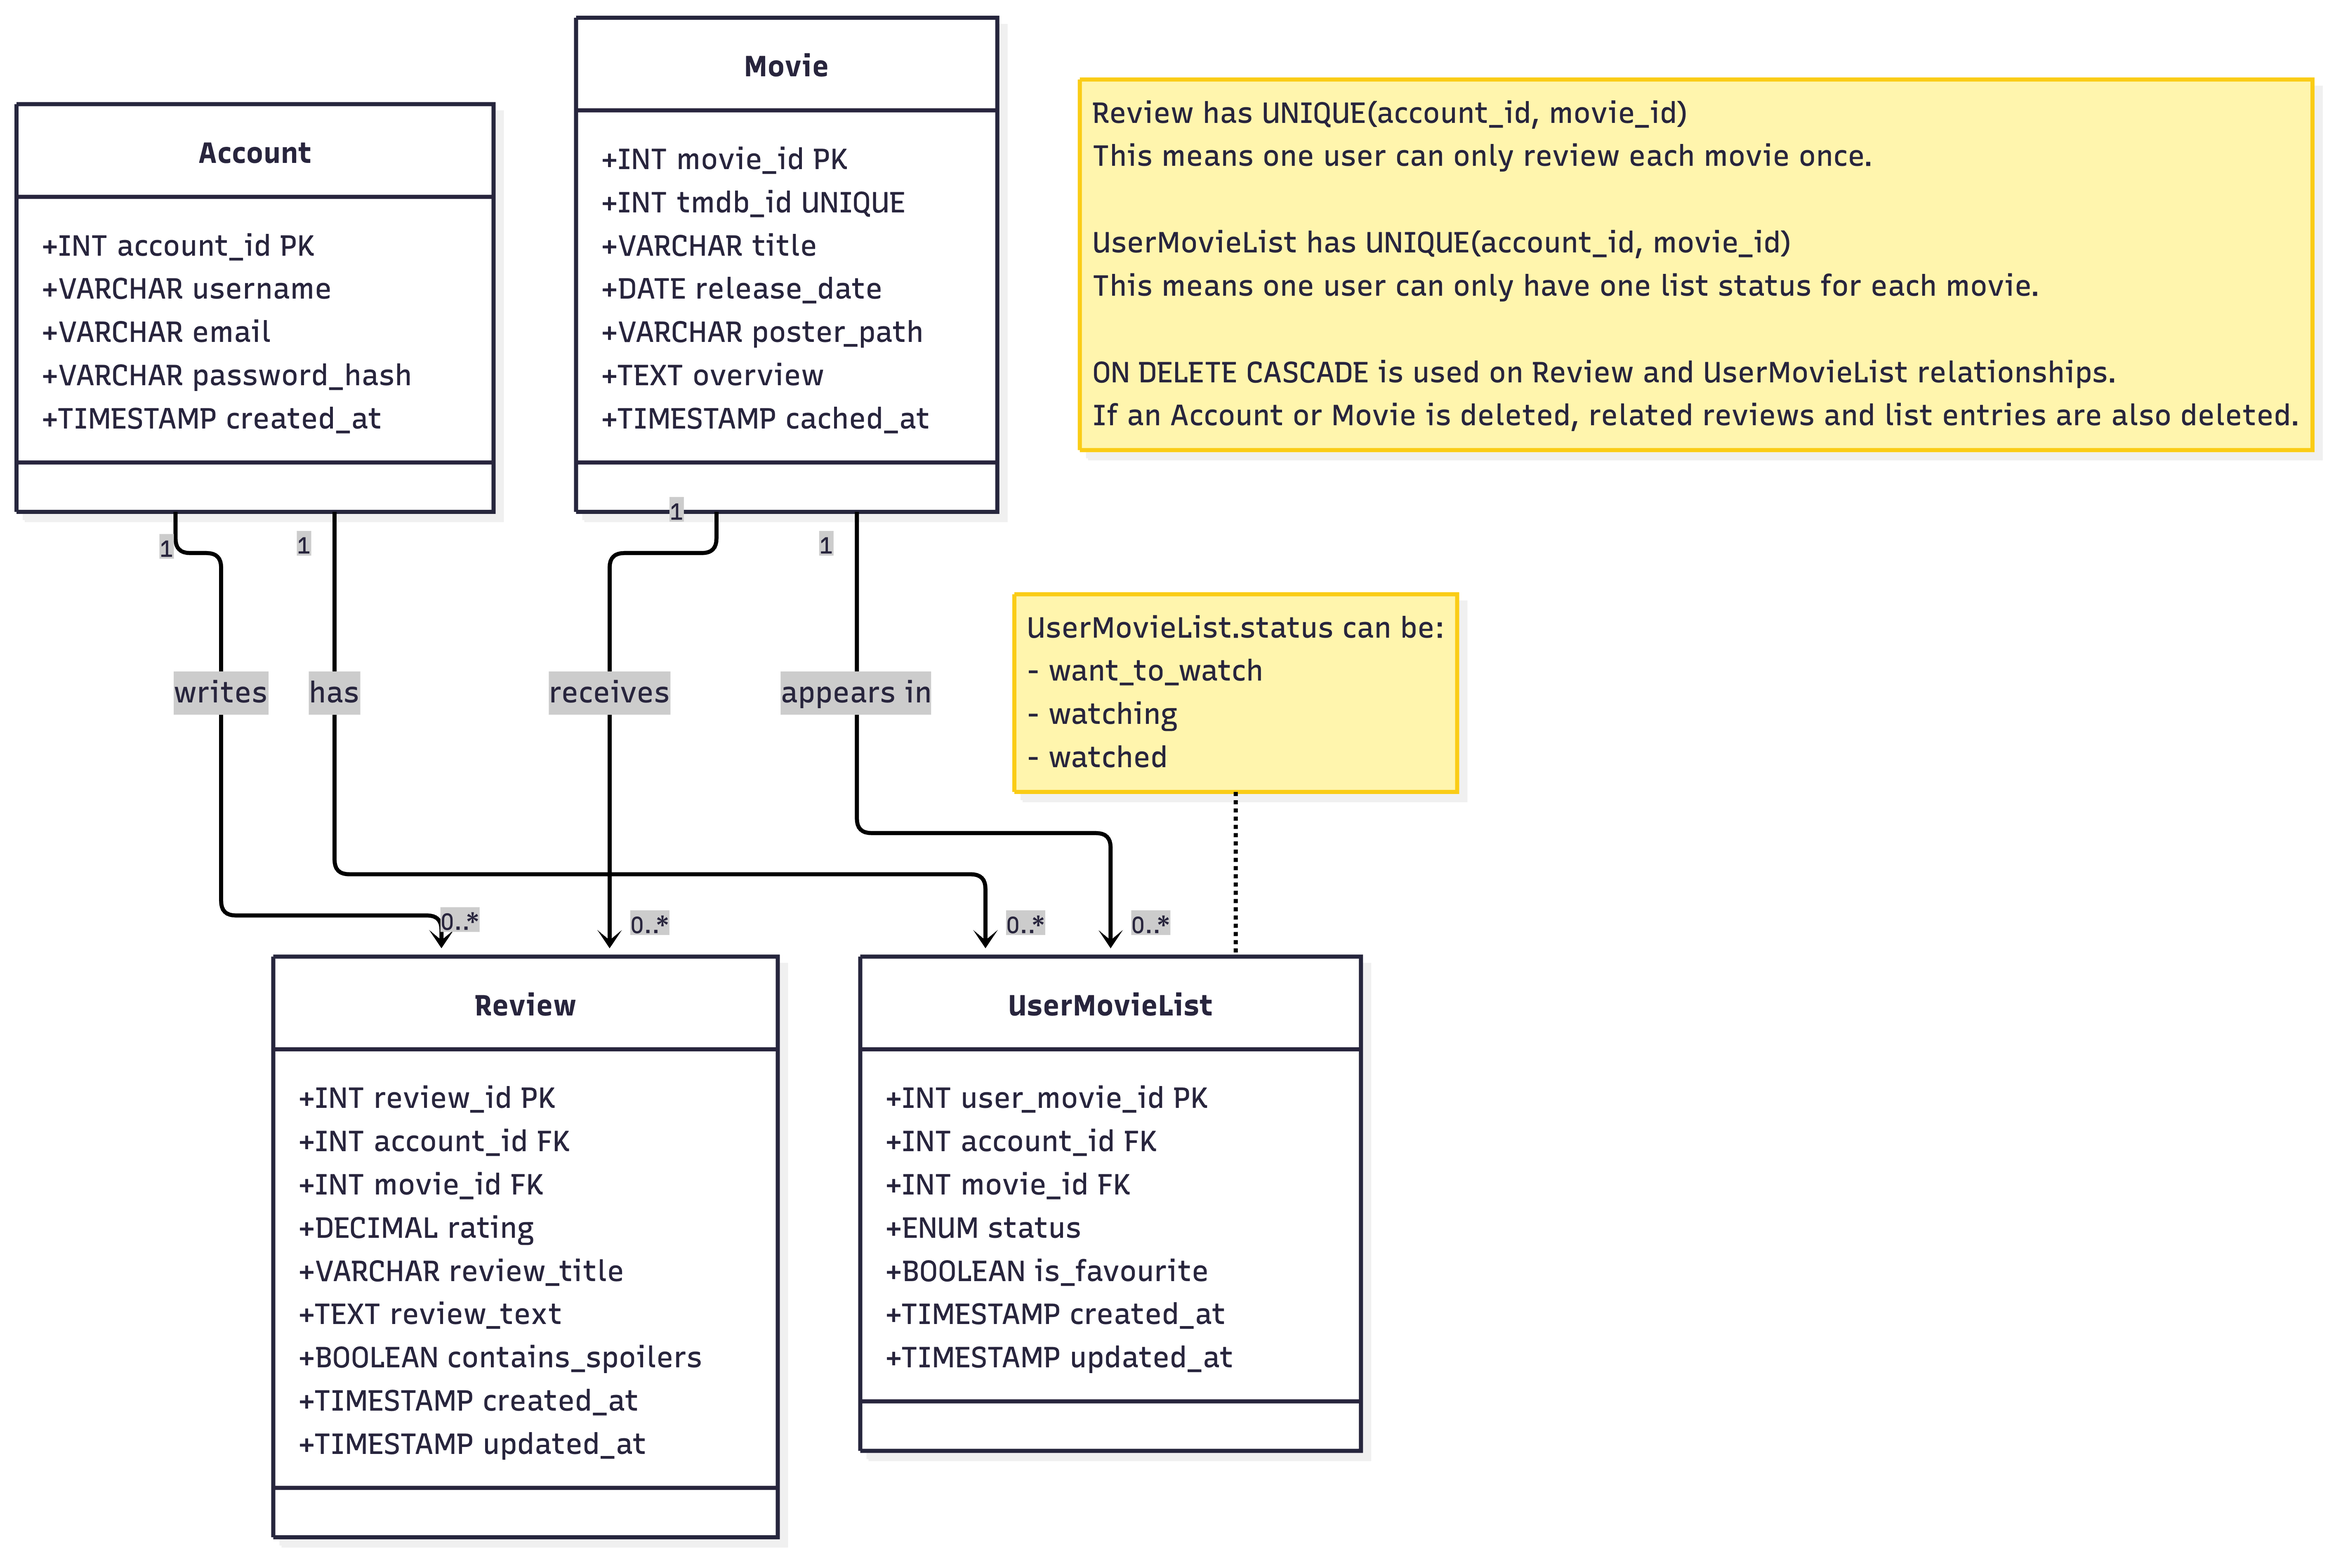
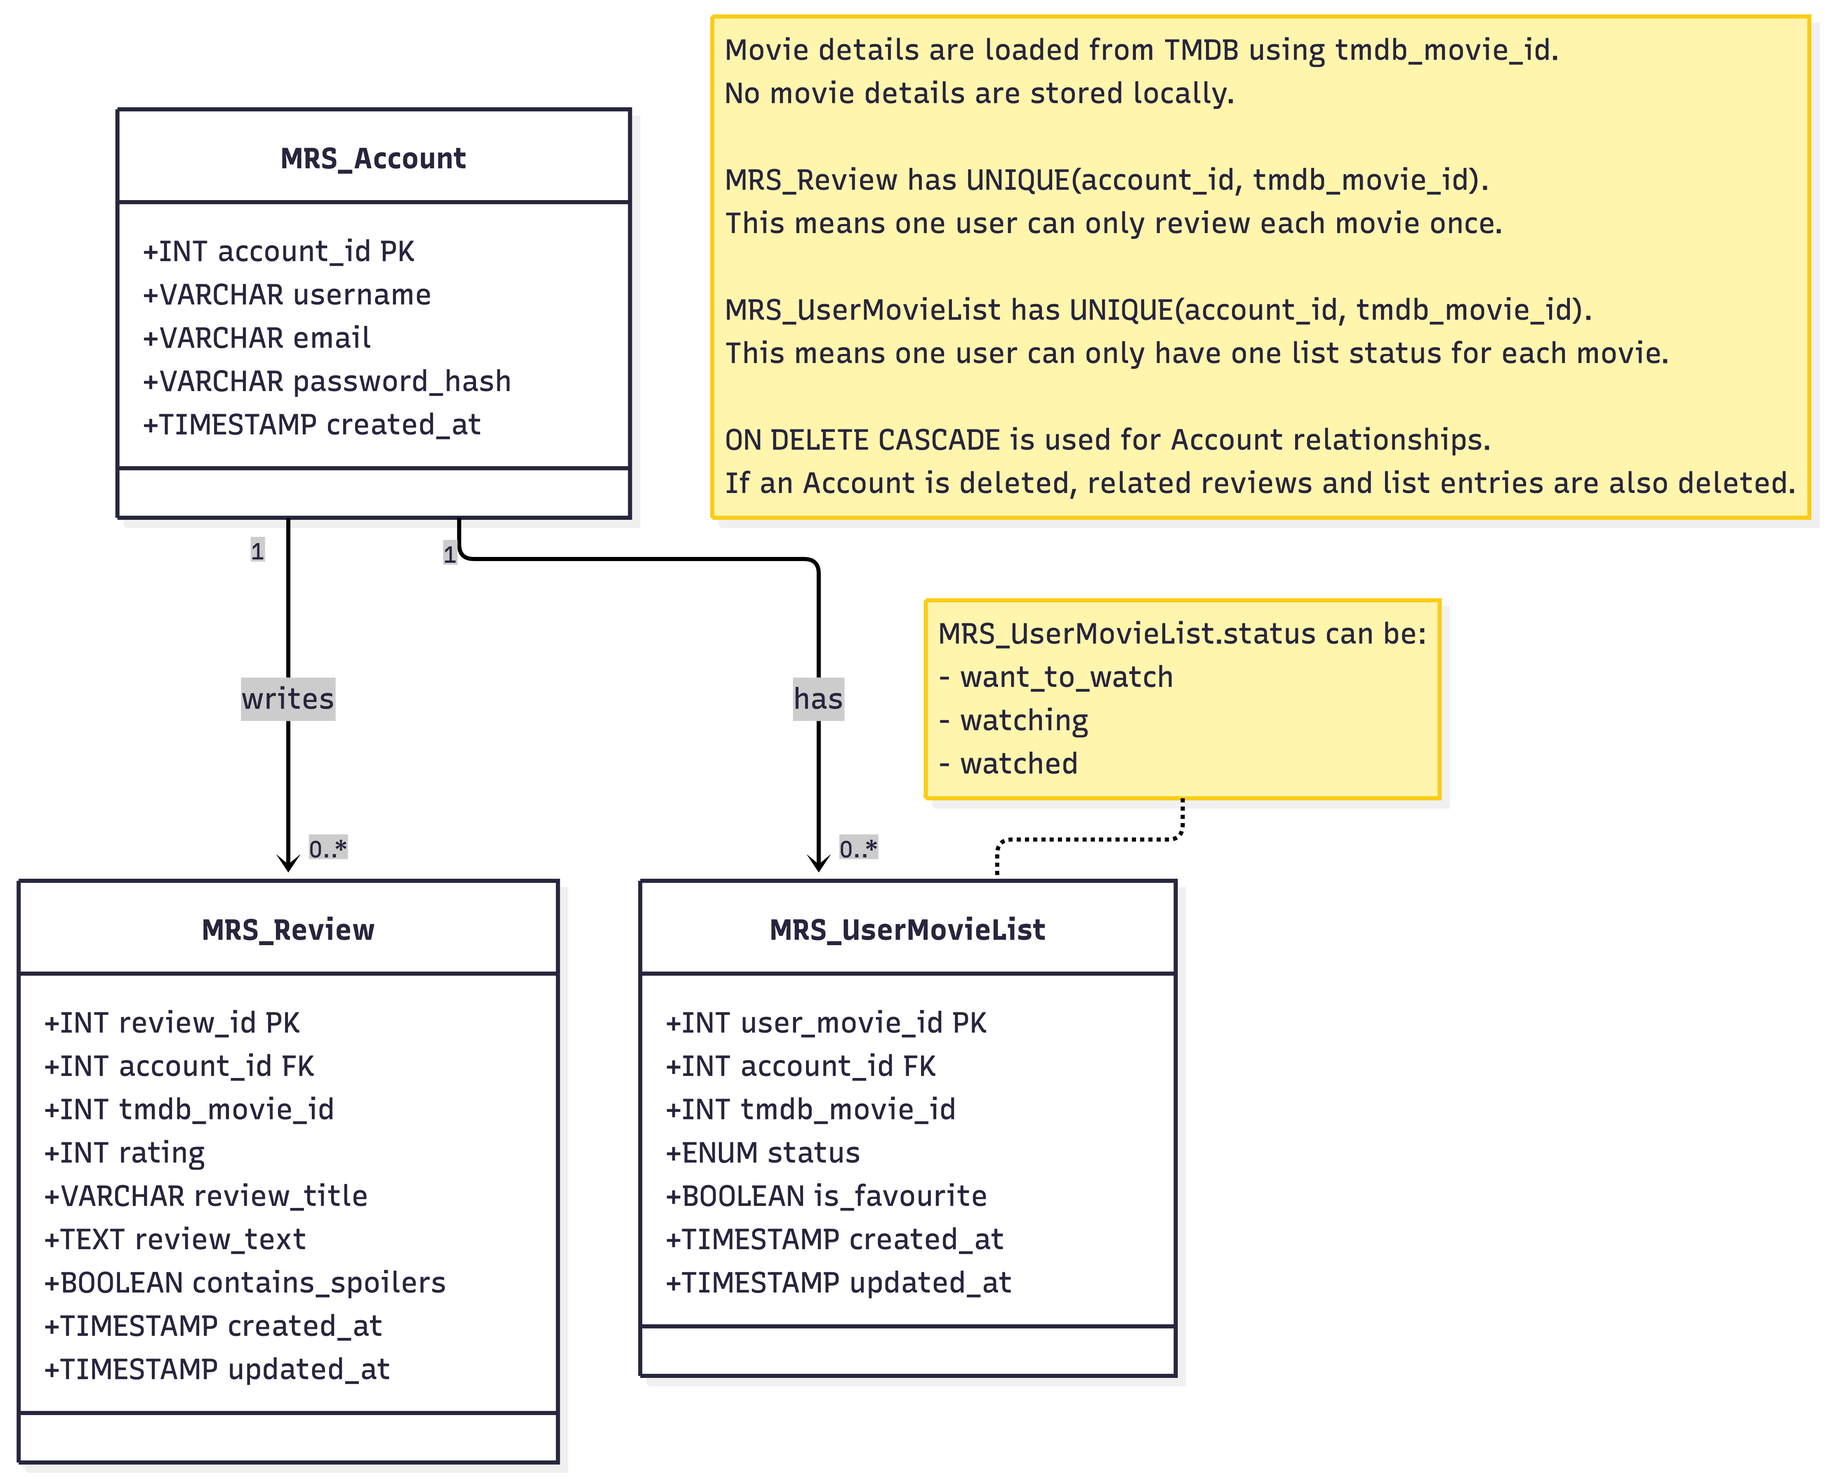
Remove Movie table + add mermaid uml code

diff --git a/cos30043-groupAssignment/database/settings.example.php b/cos30043-groupAssignment/database/settings.example.php
@@ -13,6 +13,5 @@ $username = 'your_swinburne_id';
 $password = 'your_mariadb_password';
 
 $accountTable = 'MRS_Account';
-$movieTable = 'MRS_Movie';
 $reviewTable = 'MRS_Review';
 $userMovieListTable = 'MRS_UserMovieList';
